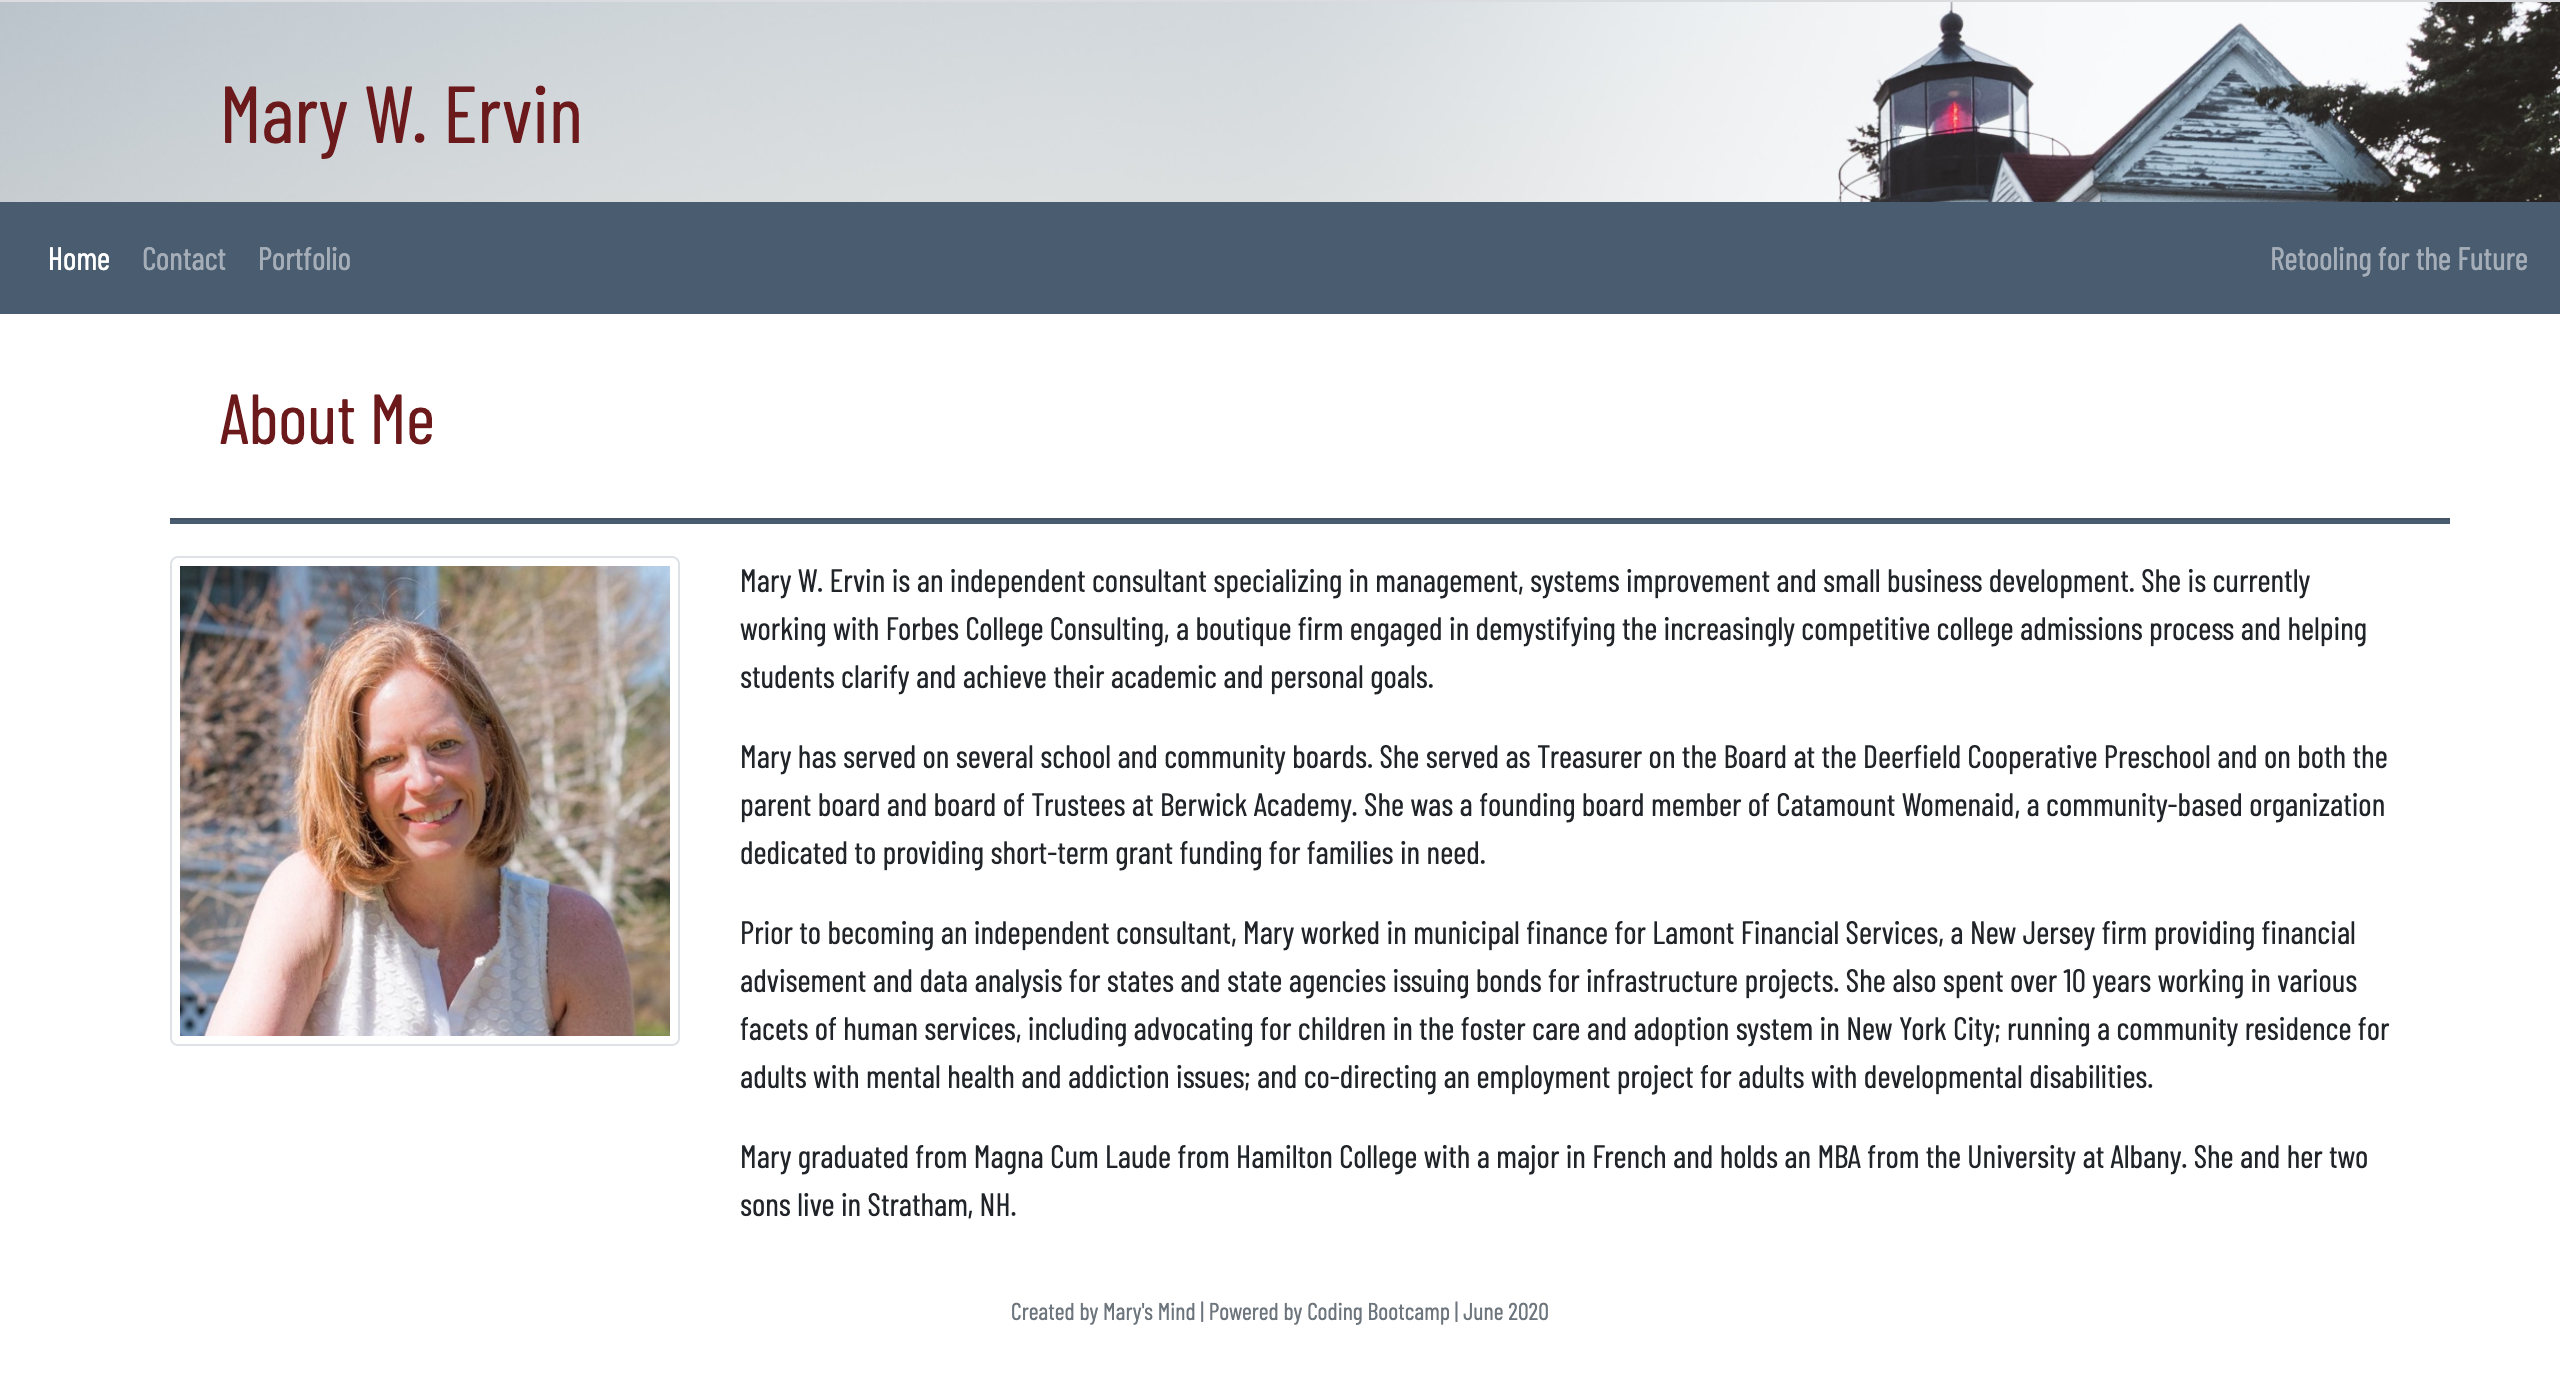
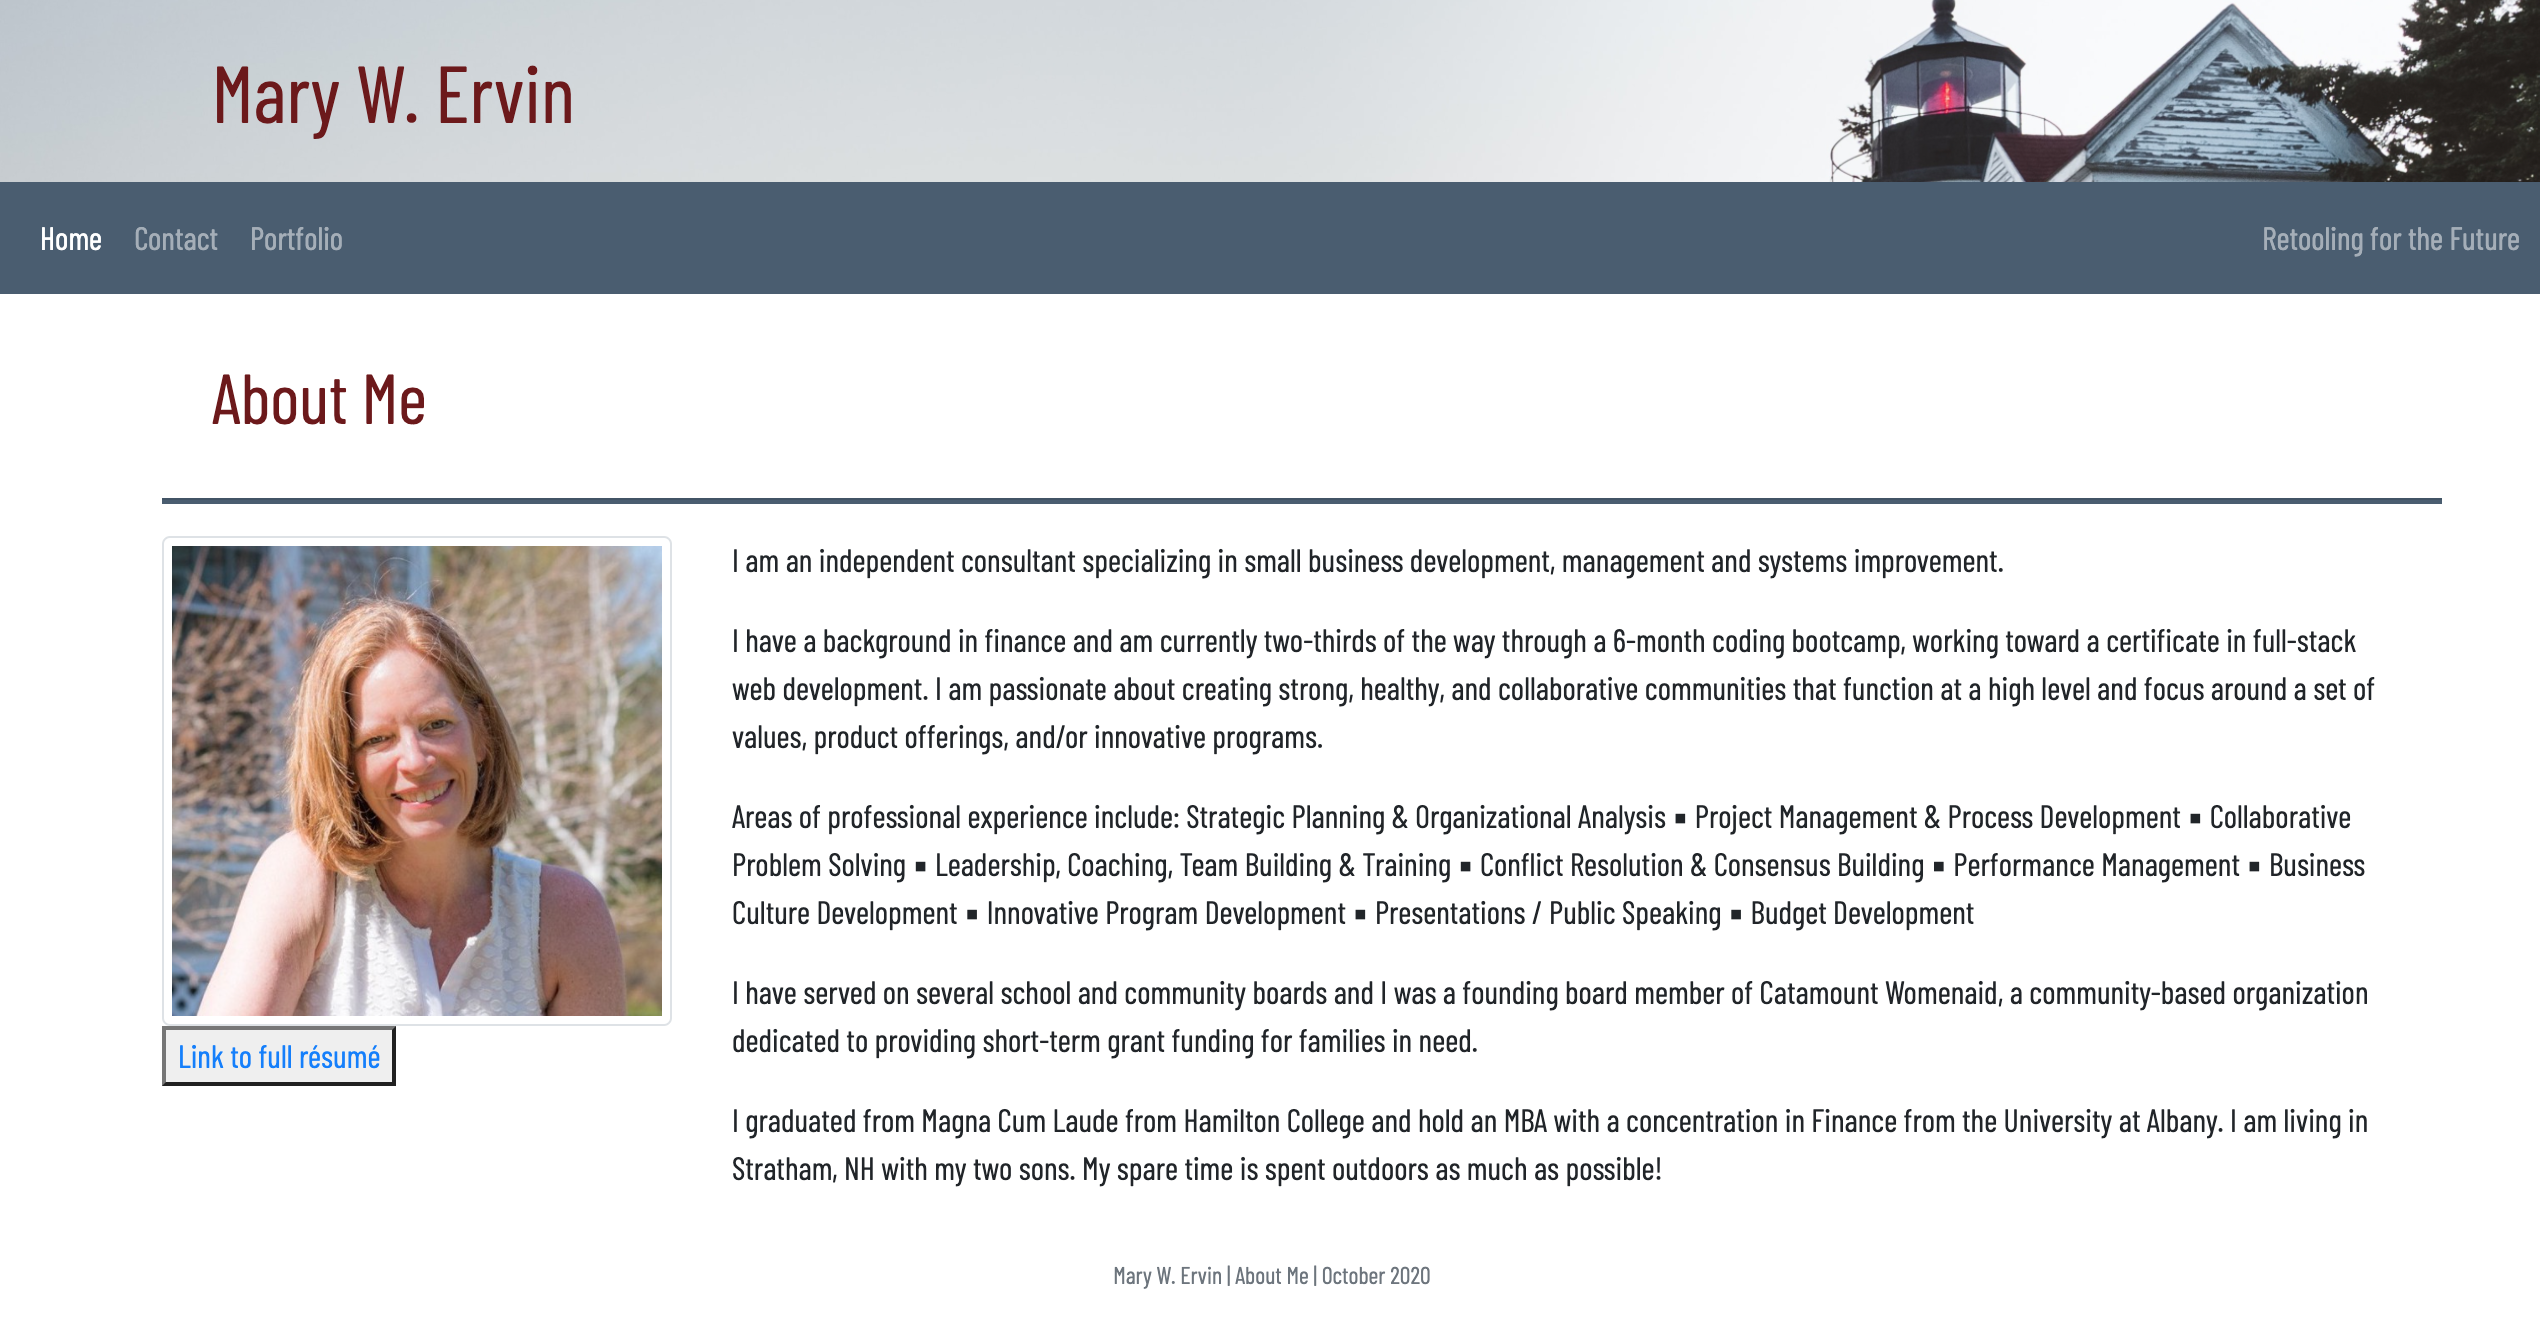
Updated About Me page and screenshot

diff --git a/index.html b/index.html
@@ -62,11 +62,10 @@
       <div class="col-lg-9">
         <p>I am an independent consultant specializing in small business development, management and systems improvement.</p> 
           
-        <p>I have a background in finance and am currently two-thirds of the way through a 6-month coding bootcamp, working toward a certificate in full-stack web development.</p>
-        
-        <p>Prior to becoming an independent consultant, I worked in municipal finance, providing financial advising and data analysis for states and state agencies.  
-          I also spent over 10 years working in various facets of social services, including advocating for children in the foster care and adoption system in New York City; running a community residence for 
-          adults with mental health and addiction issues; and co-directing an employment project for adults with developmental disabilities.</p>
+        <p>I have a background in finance and am currently two-thirds of the way through a 6-month coding bootcamp, working toward a certificate in full-stack web development.
+            I am passionate about creating strong, healthy, and collaborative communities that function at a high level and focus around a set of values, product offerings, and/or innovative programs. </p>
+
+        <p>Areas of professional experience include: Strategic Planning & Organizational Analysis ▪ Project Management & Process Development ▪ Collaborative Problem Solving ▪ Leadership, Coaching, Team Building & Training ▪ Conflict Resolution & Consensus Building ▪ Performance Management ▪ Business Culture Development ▪ Innovative Program Development ▪ Presentations / Public Speaking  ▪  Budget Development   </p>
 
         <p>I have served on several school and community boards and I was a founding board member of Catamount Womenaid, a community-based organization dedicated to providing short-term grant funding for families in need.</p>
       
